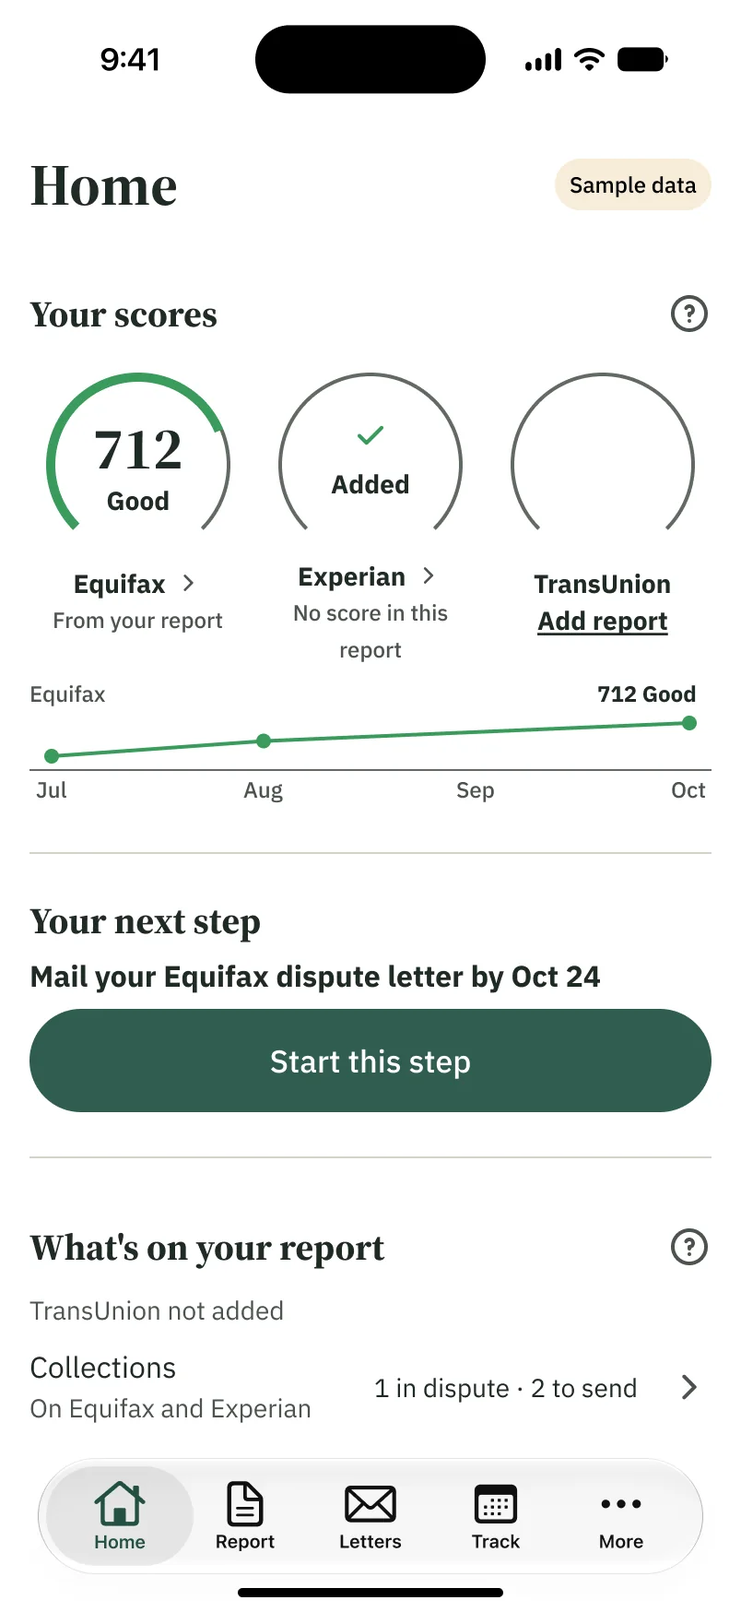
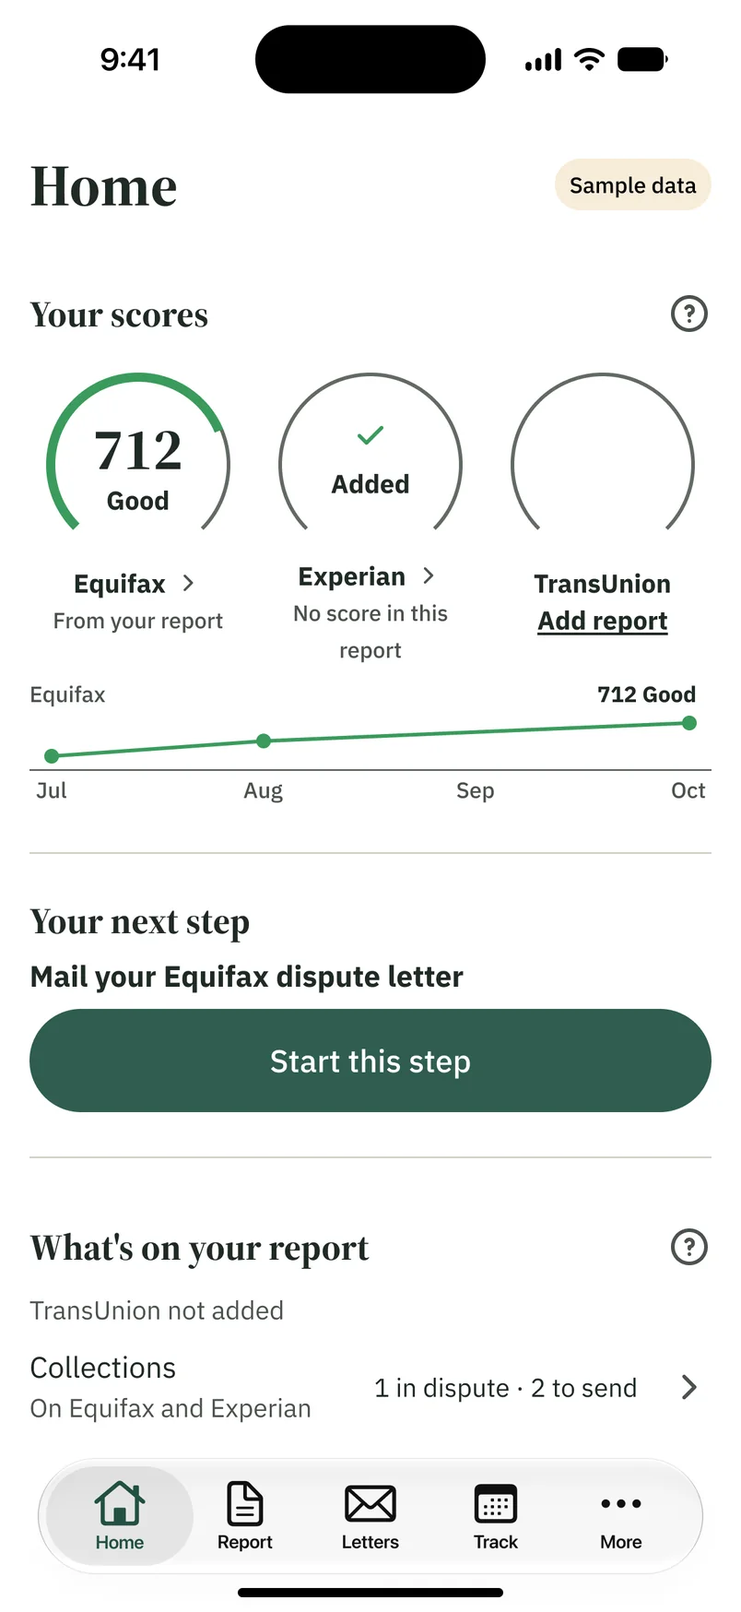
Site 1.12 review fixes
- Contact box shows a "Loading the form" line with email and phone until the
  Tally form loads; taller starting height so Send is not cut off
- Phone bar hides while Prices is on screen; shows and hides instantly
- Phone hero keeps both phones fully on screen
- Home screen image without the old "by Oct 24" date
- Terms: web cancel path, and prices shown at checkout on the web

diff --git a/index.html b/index.html
@@ -24,7 +24,7 @@
 <link rel="apple-touch-icon" href="/img/icon-180.png?v=d419769e">
 <link rel="preload" href="/fonts/SourceSerif4-700.woff2?v=812e2dc3" as="font" type="font/woff2" crossorigin>
 <link rel="preload" href="/fonts/IBMPlexSans-400.woff2?v=0ceb7590" as="font" type="font/woff2" crossorigin>
-<link rel="stylesheet" href="/css/site.css?v=4e09885d">
+<link rel="stylesheet" href="/css/site.css?v=24846df0">
 <script type="application/ld+json">{"@context":"https://schema.org","@graph":[{"@type":"Organization","@id":"https://zungidill.com/#org","name":"Numerita LLC","url":"https://zungidill.com/","logo":"https://zungidill.com/img/icon-512.png","email":"hola.numerita@gmail.com","telephone":"+1-682-247-7649","address":{"@type":"PostalAddress","addressLocality":"Sheridan","addressRegion":"WY","addressCountry":"US"},"sameAs":["https://play.google.com/store/apps/details?id=com.numerita.zungidil"],"contactPoint":{"@type":"ContactPoint","contactType":"customer support","email":"hola.numerita@gmail.com","telephone":"+1-682-247-7649","availableLanguage":"English"}},{"@type":"WebSite","@id":"https://zungidill.com/#site","name":"ZungiDill","url":"https://zungidill.com/","publisher":{"@id":"https://zungidill.com/#org"},"inLanguage":"en-US"},{"@type":"MobileApplication","@id":"https://zungidill.com/#app","name":"ZungiDill","operatingSystem":"Android","applicationCategory":"FinanceApplication","description":"Check your own credit report on your phone, mark what is wrong, and send your own dispute letters. No account and no Social Security number.","url":"https://zungidill.com/","downloadUrl":"https://play.google.com/store/apps/details?id=com.numerita.zungidil","installUrl":"https://play.google.com/store/apps/details?id=com.numerita.zungidil","publisher":{"@id":"https://zungidill.com/#org"},"image":"https://zungidill.com/img/og.png","offers":{"@type":"Offer","price":"0","priceCurrency":"USD"}},{"@type":"WebApplication","@id":"https://zungidill.com/#webapp","name":"ZungiDill web app","url":"https://zungidill.com/app/","applicationCategory":"FinanceApplication","operatingSystem":"iOS, Android, Windows, macOS","browserRequirements":"Works in Safari on iPhone and in any modern browser.","description":"The ZungiDill app in your browser. Check your own credit report, mark what is wrong, and send your own dispute letters. Works on iPhone in Safari.","publisher":{"@id":"https://zungidill.com/#org"},"image":"https://zungidill.com/img/og.png","offers":{"@type":"Offer","price":"0","priceCurrency":"USD"}},{"@type":"FAQPage","@id":"https://zungidill.com/#faq","mainEntity":[{"@type":"Question","name":"How do I fix a mistake on my credit report?","acceptedAnswer":{"@type":"Answer","text":"Get your free report, find the item that is wrong, and send the credit bureau a letter that says what is wrong and why, with copies of any proof. ZungiDill writes that letter from your taps and keeps track of the answer."}},{"@type":"Question","name":"Is this credit repair?","acceptedAnswer":{"@type":"Answer","text":"No. Nobody does it for you, and nobody charges you every month for promises. ZungiDill is a tool you use yourself. You decide what is wrong and you send your own letters."}},{"@type":"Question","name":"Where do I get my credit report?","acceptedAnswer":{"@type":"Answer","text":"Free at AnnualCreditReport.com, the official site. Save it as a PDF and open it in ZungiDill. The Support page walks you through it."}},{"@type":"Question","name":"What does it cost?","acceptedAnswer":{"@type":"Answer","text":"Checking your report and drafting letters is free. You pay only when a letter is ready to print, save or send, one at a time or with a monthly plan. You see the price before you pay. See prices"}},{"@type":"Question","name":"Can I use it for someone else?","acceptedAnswer":{"@type":"Answer","text":"No. ZungiDill is for your own credit report only. A report in another name is stopped and not used."}},{"@type":"Question","name":"Will disputing hurt my score?","acceptedAnswer":{"@type":"Answer","text":"No. Asking a credit bureau to check a mistake does not lower your score."}},{"@type":"Question","name":"What if they cannot prove it?","acceptedAnswer":{"@type":"Answer","text":"If the company that reported the item cannot show it is right, it has to be fixed or taken off your report."}},{"@type":"Question","name":"What if the item is mine and it is right?","acceptedAnswer":{"@type":"Answer","text":"ZungiDill will not tell you to call it wrong. It shows you what you can do instead, like a goodwill letter asking a lender to remove a late payment that really happened."}}]}]}</script>
 </head>
 <body>
@@ -61,7 +61,7 @@
     </div>
     <div class="stage" aria-label="ZungiDill app screens">
       <div class="phone sm back"><img src="/img/app/report.webp?v=90bdc8e9" alt="Report screen with your three credit reports and what may be wrong" width="402" height="874" decoding="async" loading="lazy"></div>
-      <div class="phone front"><img src="/img/app/home.webp?v=93f6d337" alt="Home screen with your scores and your next step" width="402" height="874" decoding="async" fetchpriority="high"></div>
+      <div class="phone front"><img src="/img/app/home.webp?v=5dac462a" alt="Home screen with your scores and your next step" width="402" height="874" decoding="async" fetchpriority="high"></div>
     </div>
   </div>
 </section>
@@ -179,14 +179,15 @@
     <div class="forms">
       <div class="panel">
         <h3>Send us a message</h3>
-        <iframe class="tally" data-tally-src="https://tally.so/embed/Zj479y?alignLeft=1&amp;hideTitle=1&amp;transparentBackground=1&amp;dynamicHeight=1" loading="lazy" width="100%" height="300" frameborder="0" marginheight="0" marginwidth="0" title="Send us a message"></iframe>
+        <p class="fine formwait">Loading the form. If it does not appear, email <a href="mailto:hola.numerita@gmail.com">hola.numerita@gmail.com</a> or call <a href="tel:+16822477649">(682) 247-7649</a>.</p>
+        <iframe class="tally" data-tally-src="https://tally.so/embed/Zj479y?alignLeft=1&amp;hideTitle=1&amp;transparentBackground=1&amp;dynamicHeight=1" loading="lazy" width="100%" height="380" frameborder="0" marginheight="0" marginwidth="0" title="Send us a message"></iframe>
         <noscript><p class="fine"><a href="https://tally.so/r/Zj479y">Open the form</a></p></noscript>
       </div>
     </div>
   </div>
 </section>
 <script src="https://tally.so/widgets/embed.js" async></script>
-<script src="/js/forms.js?v=19bae65c" defer></script>
+<script src="/js/forms.js?v=25f2c131" defer></script>
 <script src="/js/notify.js?v=98220cdd" defer></script>
 
 </main>
@@ -242,6 +243,6 @@
   </div>
 </footer>
 <div class="mbar" aria-label="Get ZungiDill"><a class="btn" href="/app/">Open the web app</a></div>
-<script src="/js/site.js?v=8ab2bbdd" defer></script>
+<script src="/js/site.js?v=d5171df5" defer></script>
 </body>
 </html>

diff --git a/terms.html b/terms.html
@@ -24,7 +24,7 @@
 <link rel="apple-touch-icon" href="/img/icon-180.png?v=d419769e">
 <link rel="preload" href="/fonts/SourceSerif4-700.woff2?v=812e2dc3" as="font" type="font/woff2" crossorigin>
 <link rel="preload" href="/fonts/IBMPlexSans-400.woff2?v=0ceb7590" as="font" type="font/woff2" crossorigin>
-<link rel="stylesheet" href="/css/site.css?v=4e09885d">
+<link rel="stylesheet" href="/css/site.css?v=24846df0">
 <script type="application/ld+json">{"@context":"https://schema.org","@graph":[{"@type":"WebPage","name":"Terms of Use","url":"https://zungidill.com/terms","isPartOf":{"@id":"https://zungidill.com/#site"},"publisher":{"@id":"https://zungidill.com/#org"}},{"@type":"BreadcrumbList","itemListElement":[{"@type":"ListItem","position":1,"name":"Home","item":"https://zungidill.com/"},{"@type":"ListItem","position":2,"name":"Terms of Use","item":"https://zungidill.com/terms"}]}]}</script>
 </head>
 <body>
@@ -46,7 +46,7 @@
   </div>
 </header>
 <main id="main">
-<div class="doc"><div class="wrap narrow"><h1>Terms of Use</h1><p class="meta">Effective October 14, 2026</p><div class="short"><h2>The short version</h2><ul><li>ZungiDill is a tool you use yourself. It is not credit repair and not a law firm.</li><li>Nobody can promise a score or a removal. The bureaus decide.</li><li>Checking and drafting are free. You pay only to send a letter, or with Monthly if you choose it.</li><li>Use it only for your own credit report, and only dispute what you believe is wrong.</li><li>Cancel Monthly any time in Google Play or your iPhone settings.</li></ul></div><nav class="toc" aria-label="On this page"><b>On this page</b><ol><li><a href="#what">What ZungiDill is</a></li><li><a href="#results">No guarantee of results</a></li><li><a href="#you">Your responsibilities</a></li><li><a href="#rights">Your free rights</a></li><li><a href="#prices">Prices and purchases</a></li><li><a href="#info">Your information</a></li><li><a href="#other">Other services</a></li><li><a href="#license">License and use</a></li><li><a href="#disclaimers">Disclaimers</a></li><li><a href="#liability">Limitation of liability</a></li><li><a href="#apple">Apple's terms</a></li><li><a href="#google">Google Play's terms</a></li><li><a href="#law">Governing law</a></li><li><a href="#changes">Changes</a></li><li><a href="#contact">Contact</a></li></ol></nav>
+<div class="doc"><div class="wrap narrow"><h1>Terms of Use</h1><p class="meta">Effective October 14, 2026</p><div class="short"><h2>The short version</h2><ul><li>ZungiDill is a tool you use yourself. It is not credit repair and not a law firm.</li><li>Nobody can promise a score or a removal. The bureaus decide.</li><li>Checking and drafting are free. You pay only to send a letter, or with Monthly if you choose it.</li><li>Use it only for your own credit report, and only dispute what you believe is wrong.</li><li>Cancel Monthly any time in Google Play or your iPhone settings, or in the web app under More, then Manage or cancel subscription.</li></ul></div><nav class="toc" aria-label="On this page"><b>On this page</b><ol><li><a href="#what">What ZungiDill is</a></li><li><a href="#results">No guarantee of results</a></li><li><a href="#you">Your responsibilities</a></li><li><a href="#rights">Your free rights</a></li><li><a href="#prices">Prices and purchases</a></li><li><a href="#info">Your information</a></li><li><a href="#other">Other services</a></li><li><a href="#license">License and use</a></li><li><a href="#disclaimers">Disclaimers</a></li><li><a href="#liability">Limitation of liability</a></li><li><a href="#apple">Apple's terms</a></li><li><a href="#google">Google Play's terms</a></li><li><a href="#law">Governing law</a></li><li><a href="#changes">Changes</a></li><li><a href="#contact">Contact</a></li></ol></nav>
 
 <p style="margin-top:24px">These terms cover the ZungiDill app for Android and iPhone and the website zungidill.com, made by Numerita LLC. By using the app you agree to them.</p>
 <h2 id="what">What ZungiDill is</h2>
@@ -58,7 +58,7 @@
 <h2 id="rights">Your free rights</h2>
 <p>You can dispute directly with the credit bureaus and the companies that report to them for free, without ZungiDill. Free credit reports are at <a href="https://www.annualcreditreport.com">AnnualCreditReport.com</a>. Credit freezes are free under federal law.</p>
 <h2 id="prices">Prices and purchases</h2>
-<p>Downloading the app, the credit report review and letter drafting are free. You pay only to print, save or send a finished letter. Prices are shown in the app and by your store before you pay. Current U.S. prices:</p>
+<p>Downloading the app, the credit report review and letter drafting are free. You pay only to print, save or send a finished letter. Prices are shown in the app and by your store, or at checkout on the web, before you pay. Current U.S. prices:</p>
 <table><tr><th scope="row">Credit report review</th><td>Free</td></tr><tr><th scope="row">Letter drafting, reading replies, follow-up letters</th><td>Free</td></tr><tr><th scope="row">One letter, one-time purchase</th><td>$4.99 launch price through December 31, 2026, then $9.99</td></tr><tr><th scope="row">ZungiDill Monthly, auto-renewing</th><td>$39.99 a month. New subscribers pay $19.99 a month for the first three months, then $39.99 a month.</td></tr></table>
 <p style="margin-top:12px">You pay the price your store shows when you confirm. A price change applies only to later purchases or renewals. Your store tells you before a subscription renews at a higher price.</p>
 <h3>One letter</h3>
@@ -145,6 +145,6 @@
   </div>
 </footer>
 <div class="mbar" aria-label="Get ZungiDill"><a class="btn" href="/app/">Open the web app</a></div>
-<script src="/js/site.js?v=8ab2bbdd" defer></script>
+<script src="/js/site.js?v=d5171df5" defer></script>
 </body>
 </html>

diff --git a/learn/collections.html b/learn/collections.html
@@ -24,7 +24,7 @@
 <link rel="apple-touch-icon" href="/img/icon-180.png?v=d419769e">
 <link rel="preload" href="/fonts/SourceSerif4-700.woff2?v=812e2dc3" as="font" type="font/woff2" crossorigin>
 <link rel="preload" href="/fonts/IBMPlexSans-400.woff2?v=0ceb7590" as="font" type="font/woff2" crossorigin>
-<link rel="stylesheet" href="/css/site.css?v=4e09885d">
+<link rel="stylesheet" href="/css/site.css?v=24846df0">
 <script type="application/ld+json">{"@context":"https://schema.org","@graph":[{"@type":"Article","@id":"https://zungidill.com/learn/collections#article","headline":"How to get a collection off your credit report","description":"How to get a collection off your credit report: check it, make the collector prove it, dispute it, and what to do if the debt is really yours.","datePublished":"2026-10-13","dateModified":"2026-10-13","author":{"@id":"https://zungidill.com/#org"},"publisher":{"@id":"https://zungidill.com/#org"},"mainEntityOfPage":"https://zungidill.com/learn/collections","image":"https://zungidill.com/img/og.png","inLanguage":"en-US","isPartOf":{"@id":"https://zungidill.com/#site"},"about":"How to get a collection off your credit report","citation":["https://www.law.cornell.edu/uscode/text/15/1692g","https://www.law.cornell.edu/uscode/text/15/1681i","https://www.law.cornell.edu/uscode/text/15/1681c","https://www.businesswire.com/news/home/20220318005244/en","https://www.cbsnews.com/news/federal-judge-reverses-medical-debt-rule-credit-reports-cfpb","https://consumer.ftc.gov/articles/disputing-errors-your-credit-reports"]},{"@type":"BreadcrumbList","itemListElement":[{"@type":"ListItem","position":1,"name":"Home","item":"https://zungidill.com/"},{"@type":"ListItem","position":2,"name":"Learn","item":"https://zungidill.com/learn/"},{"@type":"ListItem","position":3,"name":"How to get a collection off your credit report","item":"https://zungidill.com/learn/collections"}]},{"@type":"FAQPage","mainEntity":[{"@type":"Question","name":"Does paying a collection take it off my report?","acceptedAnswer":{"@type":"Answer","text":"Not by itself. Paying changes it to paid, and it can stay until its time is up, unless it was a mistake, it is a medical collection, or the collector agrees to remove it."}},{"@type":"Question","name":"Can a deleted collection come back?","acceptedAnswer":{"@type":"Answer","text":"Only if the company certifies that it is accurate, and the credit bureau has to tell you in writing within five business days."}},{"@type":"Question","name":"Should I talk to the collector on the phone?","acceptedAnswer":{"@type":"Answer","text":"Writing is safer. A letter gives you a record of what you said and when, and some rights only apply to disputes made in writing."}}]}]}</script>
 </head>
 <body>
@@ -142,6 +142,6 @@
   </div>
 </footer>
 <div class="mbar" aria-label="Get ZungiDill"><a class="btn" href="/app/">Open the web app</a></div>
-<script src="/js/site.js?v=8ab2bbdd" defer></script>
+<script src="/js/site.js?v=d5171df5" defer></script>
 </body>
 </html>

diff --git a/learn/dispute-letter.html b/learn/dispute-letter.html
@@ -24,7 +24,7 @@
 <link rel="apple-touch-icon" href="/img/icon-180.png?v=d419769e">
 <link rel="preload" href="/fonts/SourceSerif4-700.woff2?v=812e2dc3" as="font" type="font/woff2" crossorigin>
 <link rel="preload" href="/fonts/IBMPlexSans-400.woff2?v=0ceb7590" as="font" type="font/woff2" crossorigin>
-<link rel="stylesheet" href="/css/site.css?v=4e09885d">
+<link rel="stylesheet" href="/css/site.css?v=24846df0">
 <script type="application/ld+json">{"@context":"https://schema.org","@graph":[{"@type":"Article","@id":"https://zungidill.com/learn/dispute-letter#article","headline":"Credit dispute letter: a free sample you can copy","description":"A free credit dispute letter you can copy, what to put in it, where to mail it for Equifax, Experian and TransUnion, and what happens after you send it.","datePublished":"2026-10-13","dateModified":"2026-10-13","author":{"@id":"https://zungidill.com/#org"},"publisher":{"@id":"https://zungidill.com/#org"},"mainEntityOfPage":"https://zungidill.com/learn/dispute-letter","image":"https://zungidill.com/img/og.png","inLanguage":"en-US","isPartOf":{"@id":"https://zungidill.com/#site"},"about":"Credit dispute letter: a free sample you can copy","citation":["https://consumer.ftc.gov/articles/disputing-errors-your-credit-reports","https://www.consumerfinance.gov/ask-cfpb/how-do-i-dispute-an-error-on-my-credit-report-en-314/","https://www.law.cornell.edu/uscode/text/15/1681i"]},{"@type":"BreadcrumbList","itemListElement":[{"@type":"ListItem","position":1,"name":"Home","item":"https://zungidill.com/"},{"@type":"ListItem","position":2,"name":"Learn","item":"https://zungidill.com/learn/"},{"@type":"ListItem","position":3,"name":"Credit dispute letter: a free sample you can copy","item":"https://zungidill.com/learn/dispute-letter"}]},{"@type":"FAQPage","mainEntity":[{"@type":"Question","name":"Should I dispute online or by mail?","acceptedAnswer":{"@type":"Answer","text":"Both work. Online is faster. Mail gives you proof of what you sent and the day it arrived, which helps if you need to dispute again or file a complaint."}},{"@type":"Question","name":"Do I need a letter for each credit bureau?","acceptedAnswer":{"@type":"Answer","text":"Yes. Each bureau keeps its own file, so send a letter to every bureau that shows the mistake."}},{"@type":"Question","name":"Can I dispute more than one item in one letter?","acceptedAnswer":{"@type":"Answer","text":"Yes. List each item on its own with what is wrong with it and what you want done."}}]}]}</script>
 </head>
 <body>
@@ -177,6 +177,6 @@ Sincerely,
   </div>
 </footer>
 <div class="mbar" aria-label="Get ZungiDill"><a class="btn" href="/app/">Open the web app</a></div>
-<script src="/js/site.js?v=8ab2bbdd" defer></script>
+<script src="/js/site.js?v=d5171df5" defer></script>
 </body>
 </html>

diff --git a/learn/not-mine.html b/learn/not-mine.html
@@ -24,7 +24,7 @@
 <link rel="apple-touch-icon" href="/img/icon-180.png?v=d419769e">
 <link rel="preload" href="/fonts/SourceSerif4-700.woff2?v=812e2dc3" as="font" type="font/woff2" crossorigin>
 <link rel="preload" href="/fonts/IBMPlexSans-400.woff2?v=0ceb7590" as="font" type="font/woff2" crossorigin>
-<link rel="stylesheet" href="/css/site.css?v=4e09885d">
+<link rel="stylesheet" href="/css/site.css?v=24846df0">
 <script type="application/ld+json">{"@context":"https://schema.org","@graph":[{"@type":"Article","@id":"https://zungidill.com/learn/not-mine#article","headline":"Accounts on your credit report that are not yours","description":"Accounts on your credit report you never opened? Tell a mix up from identity theft, block the accounts in four business days and freeze your credit.","datePublished":"2026-10-13","dateModified":"2026-10-13","author":{"@id":"https://zungidill.com/#org"},"publisher":{"@id":"https://zungidill.com/#org"},"mainEntityOfPage":"https://zungidill.com/learn/not-mine","image":"https://zungidill.com/img/og.png","inLanguage":"en-US","isPartOf":{"@id":"https://zungidill.com/#site"},"about":"Accounts on your credit report that are not yours","citation":["https://www.identitytheft.gov","https://www.law.cornell.edu/uscode/text/15/1681c-2","https://consumer.ftc.gov/articles/credit-freeze-or-fraud-alert-whats-right-your-credit-report","https://consumer.ftc.gov/articles/disputing-errors-your-credit-reports"]},{"@type":"BreadcrumbList","itemListElement":[{"@type":"ListItem","position":1,"name":"Home","item":"https://zungidill.com/"},{"@type":"ListItem","position":2,"name":"Learn","item":"https://zungidill.com/learn/"},{"@type":"ListItem","position":3,"name":"Accounts on your credit report that are not yours","item":"https://zungidill.com/learn/not-mine"}]},{"@type":"FAQPage","mainEntity":[{"@type":"Question","name":"Does a credit freeze hurt my score?","acceptedAnswer":{"@type":"Answer","text":"No. It does not change your score, and you can keep using the accounts you already have."}},{"@type":"Question","name":"Do I need a police report?","acceptedAnswer":{"@type":"Answer","text":"Usually the Identity Theft Report from IdentityTheft.gov is enough. Some companies also ask for a police report."}},{"@type":"Question","name":"How is a block different from a dispute?","acceptedAnswer":{"@type":"Answer","text":"A block is for identity theft and has to happen within four business days. A dispute is for mistakes and usually takes up to 30 days."}}]}]}</script>
 </head>
 <body>
@@ -135,6 +135,6 @@
   </div>
 </footer>
 <div class="mbar" aria-label="Get ZungiDill"><a class="btn" href="/app/">Open the web app</a></div>
-<script src="/js/site.js?v=8ab2bbdd" defer></script>
+<script src="/js/site.js?v=d5171df5" defer></script>
 </body>
 </html>

diff --git a/learn/how-long.html b/learn/how-long.html
@@ -24,7 +24,7 @@
 <link rel="apple-touch-icon" href="/img/icon-180.png?v=d419769e">
 <link rel="preload" href="/fonts/SourceSerif4-700.woff2?v=812e2dc3" as="font" type="font/woff2" crossorigin>
 <link rel="preload" href="/fonts/IBMPlexSans-400.woff2?v=0ceb7590" as="font" type="font/woff2" crossorigin>
-<link rel="stylesheet" href="/css/site.css?v=4e09885d">
+<link rel="stylesheet" href="/css/site.css?v=24846df0">
 <script type="application/ld+json">{"@context":"https://schema.org","@graph":[{"@type":"Article","@id":"https://zungidill.com/learn/how-long#article","headline":"How long things stay on your credit report","description":"How long late payments, collections, charge offs, bankruptcy and credit checks stay on your credit report, and what to do if one stays too long.","datePublished":"2026-10-13","dateModified":"2026-10-13","author":{"@id":"https://zungidill.com/#org"},"publisher":{"@id":"https://zungidill.com/#org"},"mainEntityOfPage":"https://zungidill.com/learn/how-long","image":"https://zungidill.com/img/og.png","inLanguage":"en-US","isPartOf":{"@id":"https://zungidill.com/#site"},"about":"How long things stay on your credit report","citation":["https://www.law.cornell.edu/uscode/text/15/1681c","https://consumer.ftc.gov/articles/disputing-errors-your-credit-reports","https://www.businesswire.com/news/home/20230711822181/en/myFICO-How-to-Rate-Shop-and-Minimize-the-Impact-to-Your-FICO-Scores","https://www.businesswire.com/news/home/20220318005244/en"]},{"@type":"BreadcrumbList","itemListElement":[{"@type":"ListItem","position":1,"name":"Home","item":"https://zungidill.com/"},{"@type":"ListItem","position":2,"name":"Learn","item":"https://zungidill.com/learn/"},{"@type":"ListItem","position":3,"name":"How long things stay on your credit report","item":"https://zungidill.com/learn/how-long"}]},{"@type":"FAQPage","mainEntity":[{"@type":"Question","name":"Does paying a debt reset the seven years?","acceptedAnswer":{"@type":"Answer","text":"No. The clock is based on when you first fell behind, and paying does not change that date."}},{"@type":"Question","name":"Do old items still hurt my score?","acceptedAnswer":{"@type":"Answer","text":"Less over time. Older items count less than new ones, even before they come off."}},{"@type":"Question","name":"What if an item is past its time and still there?","acceptedAnswer":{"@type":"Answer","text":"Dispute it with each credit bureau that shows it and point to the date you first fell behind."}}]}]}</script>
 </head>
 <body>
@@ -136,6 +136,6 @@
   </div>
 </footer>
 <div class="mbar" aria-label="Get ZungiDill"><a class="btn" href="/app/">Open the web app</a></div>
-<script src="/js/site.js?v=8ab2bbdd" defer></script>
+<script src="/js/site.js?v=d5171df5" defer></script>
 </body>
 </html>

diff --git a/learn/credit-repair.html b/learn/credit-repair.html
@@ -24,7 +24,7 @@
 <link rel="apple-touch-icon" href="/img/icon-180.png?v=d419769e">
 <link rel="preload" href="/fonts/SourceSerif4-700.woff2?v=812e2dc3" as="font" type="font/woff2" crossorigin>
 <link rel="preload" href="/fonts/IBMPlexSans-400.woff2?v=0ceb7590" as="font" type="font/woff2" crossorigin>
-<link rel="stylesheet" href="/css/site.css?v=4e09885d">
+<link rel="stylesheet" href="/css/site.css?v=24846df0">
 <script type="application/ld+json">{"@context":"https://schema.org","@graph":[{"@type":"Article","@id":"https://zungidill.com/learn/credit-repair#article","headline":"Credit repair companies: what they can and cannot do","description":"What credit repair companies can legally do, what they cannot, the red flags of a scam, and how to do the same thing yourself for free in the same time.","datePublished":"2026-10-13","dateModified":"2026-10-13","author":{"@id":"https://zungidill.com/#org"},"publisher":{"@id":"https://zungidill.com/#org"},"mainEntityOfPage":"https://zungidill.com/learn/credit-repair","image":"https://zungidill.com/img/og.png","inLanguage":"en-US","isPartOf":{"@id":"https://zungidill.com/#site"},"about":"Credit repair companies: what they can and cannot do","citation":["https://www.law.cornell.edu/uscode/text/15/1679b","https://www.law.cornell.edu/uscode/text/15/1679e","https://consumer.ftc.gov/articles/fixing-your-credit-faqs"]},{"@type":"BreadcrumbList","itemListElement":[{"@type":"ListItem","position":1,"name":"Home","item":"https://zungidill.com/"},{"@type":"ListItem","position":2,"name":"Learn","item":"https://zungidill.com/learn/"},{"@type":"ListItem","position":3,"name":"Credit repair companies: what they can and cannot do","item":"https://zungidill.com/learn/credit-repair"}]},{"@type":"FAQPage","mainEntity":[{"@type":"Question","name":"Is credit repair worth it?","acceptedAnswer":{"@type":"Answer","text":"For most people, no. Everything they can legally do, you can do yourself for free in about the same time."}},{"@type":"Question","name":"What is a CPN?","acceptedAnswer":{"@type":"Answer","text":"A credit privacy number, sold as a way to get a fresh credit file. It is a scam, and using one to apply for credit can be a federal crime."}},{"@type":"Question","name":"Is ZungiDill a credit repair company?","acceptedAnswer":{"@type":"Answer","text":"No. ZungiDill is a tool you use yourself. You decide what is wrong and you send your own letters."}}]}]}</script>
 </head>
 <body>
@@ -139,6 +139,6 @@
   </div>
 </footer>
 <div class="mbar" aria-label="Get ZungiDill"><a class="btn" href="/app/">Open the web app</a></div>
-<script src="/js/site.js?v=8ab2bbdd" defer></script>
+<script src="/js/site.js?v=d5171df5" defer></script>
 </body>
 </html>

diff --git a/learn/car-loan.html b/learn/car-loan.html
@@ -24,7 +24,7 @@
 <link rel="apple-touch-icon" href="/img/icon-180.png?v=d419769e">
 <link rel="preload" href="/fonts/SourceSerif4-700.woff2?v=812e2dc3" as="font" type="font/woff2" crossorigin>
 <link rel="preload" href="/fonts/IBMPlexSans-400.woff2?v=0ceb7590" as="font" type="font/woff2" crossorigin>
-<link rel="stylesheet" href="/css/site.css?v=4e09885d">
+<link rel="stylesheet" href="/css/site.css?v=24846df0">
 <script type="application/ld+json">{"@context":"https://schema.org","@graph":[{"@type":"Article","@id":"https://zungidill.com/learn/car-loan#article","headline":"Car loan with bad credit: check your report before you shop","description":"Getting a car with bad credit? Fix mistakes on your credit report first, get preapproved by a credit union and know what to ask before you sign.","datePublished":"2026-10-13","dateModified":"2026-10-13","author":{"@id":"https://zungidill.com/#org"},"publisher":{"@id":"https://zungidill.com/#org"},"mainEntityOfPage":"https://zungidill.com/learn/car-loan","image":"https://zungidill.com/img/og.png","inLanguage":"en-US","isPartOf":{"@id":"https://zungidill.com/#site"},"about":"Car loan with bad credit: check your report before you shop","citation":["https://www.consumerfinance.gov/consumer-tools/auto-loans/","https://www.businesswire.com/news/home/20230711822181/en/myFICO-How-to-Rate-Shop-and-Minimize-the-Impact-to-Your-FICO-Scores","https://mapping.ncua.gov/","https://www.annualcreditreport.com"]},{"@type":"BreadcrumbList","itemListElement":[{"@type":"ListItem","position":1,"name":"Home","item":"https://zungidill.com/"},{"@type":"ListItem","position":2,"name":"Learn","item":"https://zungidill.com/learn/"},{"@type":"ListItem","position":3,"name":"Car loan with bad credit: check your report before you shop","item":"https://zungidill.com/learn/car-loan"}]},{"@type":"FAQPage","mainEntity":[{"@type":"Question","name":"Does a bigger down payment help?","acceptedAnswer":{"@type":"Answer","text":"Usually. A bigger down payment means a smaller loan, which can help you get approved and lower your payment."}},{"@type":"Question","name":"Will checking my own credit report lower my score?","acceptedAnswer":{"@type":"Answer","text":"No. Checking your own report never hurts your score."}}]}]}</script>
 </head>
 <body>
@@ -132,6 +132,6 @@
   </div>
 </footer>
 <div class="mbar" aria-label="Get ZungiDill"><a class="btn" href="/app/">Open the web app</a></div>
-<script src="/js/site.js?v=8ab2bbdd" defer></script>
+<script src="/js/site.js?v=d5171df5" defer></script>
 </body>
 </html>

diff --git a/learn/mistakes.html b/learn/mistakes.html
@@ -24,7 +24,7 @@
 <link rel="apple-touch-icon" href="/img/icon-180.png?v=d419769e">
 <link rel="preload" href="/fonts/SourceSerif4-700.woff2?v=812e2dc3" as="font" type="font/woff2" crossorigin>
 <link rel="preload" href="/fonts/IBMPlexSans-400.woff2?v=0ceb7590" as="font" type="font/woff2" crossorigin>
-<link rel="stylesheet" href="/css/site.css?v=4e09885d">
+<link rel="stylesheet" href="/css/site.css?v=24846df0">
 <script type="application/ld+json">{"@context":"https://schema.org","@graph":[{"@type":"Article","@id":"https://zungidill.com/learn/mistakes#article","headline":"Credit report mistakes to look for","description":"The most common credit report mistakes, from wrong names and accounts that are not yours to late payments, balances and dates, and how to spot each one.","datePublished":"2026-10-13","dateModified":"2026-10-13","author":{"@id":"https://zungidill.com/#org"},"publisher":{"@id":"https://zungidill.com/#org"},"mainEntityOfPage":"https://zungidill.com/learn/mistakes","image":"https://zungidill.com/img/og.png","inLanguage":"en-US","isPartOf":{"@id":"https://zungidill.com/#site"},"about":"Credit report mistakes to look for","citation":["https://www.consumerfinance.gov/about-us/blog/common-errors-credit-report-and-how-get-them-fixed","https://consumer.ftc.gov/articles/disputing-errors-your-credit-reports","https://www.law.cornell.edu/uscode/text/15/1681i","https://www.annualcreditreport.com"]},{"@type":"BreadcrumbList","itemListElement":[{"@type":"ListItem","position":1,"name":"Home","item":"https://zungidill.com/"},{"@type":"ListItem","position":2,"name":"Learn","item":"https://zungidill.com/learn/"},{"@type":"ListItem","position":3,"name":"Credit report mistakes to look for","item":"https://zungidill.com/learn/mistakes"}]},{"@type":"FAQPage","mainEntity":[{"@type":"Question","name":"Should I check accounts that look fine?","acceptedAnswer":{"@type":"Answer","text":"Yes. A wrong balance, limit or date on a good account can still hurt your score."}},{"@type":"Question","name":"Can I dispute a mistake on just one report?","acceptedAnswer":{"@type":"Answer","text":"Yes. Dispute it with each bureau that shows it. The others do not need a letter."}}]}]}</script>
 </head>
 <body>
@@ -148,6 +148,6 @@
   </div>
 </footer>
 <div class="mbar" aria-label="Get ZungiDill"><a class="btn" href="/app/">Open the web app</a></div>
-<script src="/js/site.js?v=8ab2bbdd" defer></script>
+<script src="/js/site.js?v=d5171df5" defer></script>
 </body>
 </html>

diff --git a/learn/goodwill-letter.html b/learn/goodwill-letter.html
@@ -24,7 +24,7 @@
 <link rel="apple-touch-icon" href="/img/icon-180.png?v=d419769e">
 <link rel="preload" href="/fonts/SourceSerif4-700.woff2?v=812e2dc3" as="font" type="font/woff2" crossorigin>
 <link rel="preload" href="/fonts/IBMPlexSans-400.woff2?v=0ceb7590" as="font" type="font/woff2" crossorigin>
-<link rel="stylesheet" href="/css/site.css?v=4e09885d">
+<link rel="stylesheet" href="/css/site.css?v=24846df0">
 <script type="application/ld+json">{"@context":"https://schema.org","@graph":[{"@type":"Article","@id":"https://zungidill.com/learn/goodwill-letter#article","headline":"Goodwill letter for a late payment: a free sample","description":"A free goodwill letter sample to ask a lender to remove a late payment that really happened, when it works, when it does not, and who to send it to.","datePublished":"2026-10-13","dateModified":"2026-10-13","author":{"@id":"https://zungidill.com/#org"},"publisher":{"@id":"https://zungidill.com/#org"},"mainEntityOfPage":"https://zungidill.com/learn/goodwill-letter","image":"https://zungidill.com/img/og.png","inLanguage":"en-US","isPartOf":{"@id":"https://zungidill.com/#site"},"about":"Goodwill letter for a late payment: a free sample","citation":["https://consumer.ftc.gov/articles/fixing-your-credit-faqs","https://consumer.ftc.gov/articles/disputing-errors-your-credit-reports"]},{"@type":"BreadcrumbList","itemListElement":[{"@type":"ListItem","position":1,"name":"Home","item":"https://zungidill.com/"},{"@type":"ListItem","position":2,"name":"Learn","item":"https://zungidill.com/learn/"},{"@type":"ListItem","position":3,"name":"Goodwill letter for a late payment: a free sample","item":"https://zungidill.com/learn/goodwill-letter"}]},{"@type":"FAQPage","mainEntity":[{"@type":"Question","name":"Does a goodwill letter hurt my credit?","acceptedAnswer":{"@type":"Answer","text":"No. Asking does not change your report. The worst answer is no."}},{"@type":"Question","name":"Can I send a goodwill letter to a collection agency?","acceptedAnswer":{"@type":"Answer","text":"You can, but with collections a pay for delete offer usually gets further. See how to get a collection off your report."}}]}]}</script>
 </head>
 <body>
@@ -146,6 +146,6 @@ Sincerely,
   </div>
 </footer>
 <div class="mbar" aria-label="Get ZungiDill"><a class="btn" href="/app/">Open the web app</a></div>
-<script src="/js/site.js?v=8ab2bbdd" defer></script>
+<script src="/js/site.js?v=d5171df5" defer></script>
 </body>
 </html>

diff --git a/guide.html b/guide.html
@@ -24,7 +24,7 @@
 <link rel="apple-touch-icon" href="/img/icon-180.png?v=d419769e">
 <link rel="preload" href="/fonts/SourceSerif4-700.woff2?v=812e2dc3" as="font" type="font/woff2" crossorigin>
 <link rel="preload" href="/fonts/IBMPlexSans-400.woff2?v=0ceb7590" as="font" type="font/woff2" crossorigin>
-<link rel="stylesheet" href="/css/site.css?v=4e09885d">
+<link rel="stylesheet" href="/css/site.css?v=24846df0">
 <script type="application/ld+json">{"@context":"https://schema.org","@graph":[{"@type":"Article","@id":"https://zungidill.com/guide#article","headline":"How to fix a mistake on your credit report","description":"A plain step by step guide to disputing a mistake on your credit report yourself, for free.","datePublished":"2026-10-13","dateModified":"2026-10-13","author":{"@id":"https://zungidill.com/#org"},"publisher":{"@id":"https://zungidill.com/#org"},"mainEntityOfPage":"https://zungidill.com/guide","image":"https://zungidill.com/img/og.png","inLanguage":"en-US","isPartOf":{"@id":"https://zungidill.com/#site"},"about":"Disputing credit report errors","citation":["https://consumer.ftc.gov/articles/disputing-errors-your-credit-reports","https://www.consumerfinance.gov/ask-cfpb/how-do-i-dispute-an-error-on-my-credit-report-en-314/","https://www.identitytheft.gov","https://www.annualcreditreport.com","https://www.law.cornell.edu/uscode/text/15/1681i","https://www.law.cornell.edu/uscode/text/15/1681c-2","https://www.law.cornell.edu/uscode/text/15/1679b"]},{"@type":"BreadcrumbList","itemListElement":[{"@type":"ListItem","position":1,"name":"Home","item":"https://zungidill.com/"},{"@type":"ListItem","position":2,"name":"Learn","item":"https://zungidill.com/learn/"},{"@type":"ListItem","position":3,"name":"How to fix a mistake on your credit report","item":"https://zungidill.com/guide"}]}]}</script>
 </head>
 <body>
@@ -127,6 +127,6 @@
   </div>
 </footer>
 <div class="mbar" aria-label="Get ZungiDill"><a class="btn" href="/app/">Open the web app</a></div>
-<script src="/js/site.js?v=8ab2bbdd" defer></script>
+<script src="/js/site.js?v=d5171df5" defer></script>
 </body>
 </html>

diff --git a/learn/index.html b/learn/index.html
@@ -24,7 +24,7 @@
 <link rel="apple-touch-icon" href="/img/icon-180.png?v=d419769e">
 <link rel="preload" href="/fonts/SourceSerif4-700.woff2?v=812e2dc3" as="font" type="font/woff2" crossorigin>
 <link rel="preload" href="/fonts/IBMPlexSans-400.woff2?v=0ceb7590" as="font" type="font/woff2" crossorigin>
-<link rel="stylesheet" href="/css/site.css?v=4e09885d">
+<link rel="stylesheet" href="/css/site.css?v=24846df0">
 <script type="application/ld+json">{"@context":"https://schema.org","@graph":[{"@type":"CollectionPage","@id":"https://zungidill.com/learn/","name":"Learn","url":"https://zungidill.com/learn/","isPartOf":{"@id":"https://zungidill.com/#site"},"publisher":{"@id":"https://zungidill.com/#org"},"mainEntity":{"@type":"ItemList","itemListElement":[{"@type":"ListItem","position":1,"url":"https://zungidill.com/guide"},{"@type":"ListItem","position":2,"url":"https://zungidill.com/learn/mistakes"},{"@type":"ListItem","position":3,"url":"https://zungidill.com/learn/dispute-letter"},{"@type":"ListItem","position":4,"url":"https://zungidill.com/learn/collections"},{"@type":"ListItem","position":5,"url":"https://zungidill.com/learn/not-mine"},{"@type":"ListItem","position":6,"url":"https://zungidill.com/learn/how-long"},{"@type":"ListItem","position":7,"url":"https://zungidill.com/learn/goodwill-letter"},{"@type":"ListItem","position":8,"url":"https://zungidill.com/learn/car-loan"},{"@type":"ListItem","position":9,"url":"https://zungidill.com/learn/credit-repair"}]}},{"@type":"BreadcrumbList","itemListElement":[{"@type":"ListItem","position":1,"name":"Home","item":"https://zungidill.com/"},{"@type":"ListItem","position":2,"name":"Learn","item":"https://zungidill.com/learn/"}]}]}</script>
 </head>
 <body>
@@ -105,6 +105,6 @@
   </div>
 </footer>
 <div class="mbar" aria-label="Get ZungiDill"><a class="btn" href="/app/">Open the web app</a></div>
-<script src="/js/site.js?v=8ab2bbdd" defer></script>
+<script src="/js/site.js?v=d5171df5" defer></script>
 </body>
 </html>
